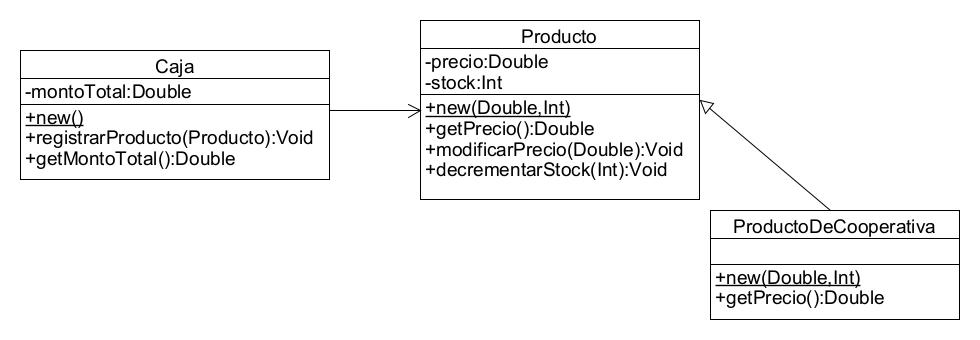
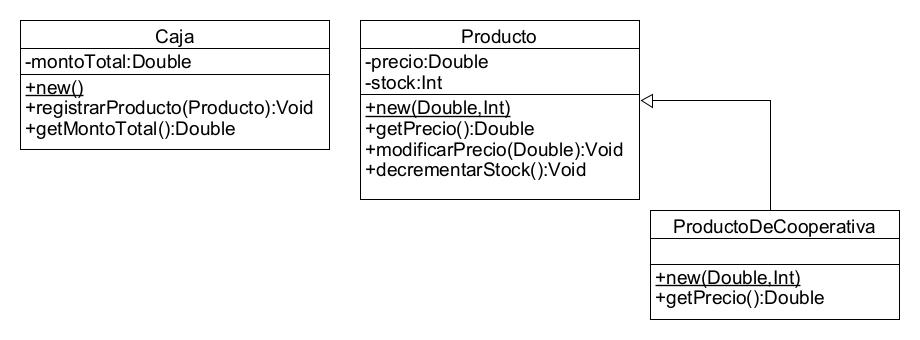
Se agrega una interfaz facturable y se quita la sobrecarga de metodo

diff --git a/test/ar/edu/unq/po2/tp4/CajaTest.java b/test/ar/edu/unq/po2/tp4/CajaTest.java
@@ -25,22 +25,22 @@ public class CajaTest {
 	@Test
 	public void testRegistrarProducto() {
 		assertEquals(0, caja.getMontoTotal());
-		caja.registrarProducto(arroz,2);
-		caja.registrarProducto(vino,1);
+		caja.registrarProducto(arroz);
+		caja.registrarProducto(vino);
 		caja.registrarProducto(impuesto);
 		caja.registrarProducto(servicio);
-		assertEquals(1278d, caja.getMontoTotal());
-		assertEquals(0, arroz.getStock());
+		assertEquals(1269d, caja.getMontoTotal());
+		assertEquals(1, arroz.getStock());
 		assertEquals(1, vino.getStock());
 	}
 	
 	@Test
 	public void testObtenerElTotal() {
 		assertEquals(0, caja.getMontoTotal());
-		caja.registrarProducto(arroz,2);
-		caja.registrarProducto(vino,1);
+		caja.registrarProducto(arroz);
+		caja.registrarProducto(vino);
 		caja.registrarProducto(impuesto);
 		caja.registrarProducto(servicio);
-		assertEquals(1278d, caja.getMontoTotal());
+		assertEquals(1269d, caja.getMontoTotal());
 	}
 }

diff --git a/src/ar/edu/unq/po2/tp4/Producto.java b/src/ar/edu/unq/po2/tp4/Producto.java
@@ -1,6 +1,6 @@
 package ar.edu.unq.po2.tp4;
 
-public class Producto {
+public class Producto implements Facturable{
 	
 	private double precio;
 	private int stock;
@@ -18,11 +18,22 @@ public class Producto {
 		this.precio = precio;
 	}
 	
-	public void decrementarStock(int cantidad) {
-		this.stock -= cantidad;
+	public void decrementarStock() {
+		this.stock -= 1;
 	}
 	
 	public int getStock() {
 		return this.stock;
+	}
+
+	@Override
+	public double getMontoAPagar() {
+		// TODO Auto-generated method stub
+		return this.getPrecio();
+	}
+
+	@Override
+	public void quitarStock() {
+		this.decrementarStock();	
 	}
 }

diff --git a/src/ar/edu/unq/po2/tp4/Caja.java b/src/ar/edu/unq/po2/tp4/Caja.java
@@ -8,14 +8,9 @@ public class Caja implements Agencia {
 		
 	}
 	
-	public void registrarProducto(Producto producto, int cantidad) {
-		this.montoTotal += producto.getPrecio()*cantidad;
-		producto.decrementarStock(cantidad);
-	}
-	
-	public void registrarProducto(Factura factura) {
-		this.montoTotal += factura.montoTotal();
-		this.registrarPago(factura);
+	public void registrarProducto(Facturable producto) {
+		this.montoTotal += producto.getMontoAPagar();
+		producto.quitarStock();
 	}
 	
 	public double getMontoTotal() {

diff --git a/src/ar/edu/unq/po2/tp4/ProductoDeCooperativa.java b/src/ar/edu/unq/po2/tp4/ProductoDeCooperativa.java
@@ -1,6 +1,6 @@
 package ar.edu.unq.po2.tp4;
 
-public class ProductoDeCooperativa extends Producto{
+public class ProductoDeCooperativa extends Producto {
 
 	ProductoDeCooperativa(double precio, int stock) {
 		super(precio, stock);
@@ -9,5 +9,11 @@ public class ProductoDeCooperativa extends Producto{
 
 	public double getPrecio() {
 		return super.getPrecio() * 0.9;
+	}
+	
+	@Override
+	public double getMontoAPagar() {
+		// TODO Auto-generated method stub
+		return this.getPrecio();
 	}
 }

diff --git a/src/ar/edu/unq/po2/tp4/FacturaImpuesto.java b/src/ar/edu/unq/po2/tp4/FacturaImpuesto.java
@@ -12,5 +12,17 @@ public class FacturaImpuesto extends Factura{
 		// TODO Auto-generated method stub
 		return super.getCostoPorUnidadConsumida() * super.getUnidadesConsumidas();
 	}
+
+	@Override
+	public double getMontoAPagar() {
+		// TODO Auto-generated method stub
+		return this.montoTotal();
+	}
+
+	@Override
+	public void quitarStock() {
+		// TODO Auto-generated method stub
+		
+	}
 	
 }

diff --git a/src/ar/edu/unq/po2/tp4/FacturaServicio.java b/src/ar/edu/unq/po2/tp4/FacturaServicio.java
@@ -12,5 +12,17 @@ public class FacturaServicio extends Factura{
 		// TODO Auto-generated method stub
 		return super.getTasaDelServicio();
 	}
+
+	@Override
+	public double getMontoAPagar() {
+		// TODO Auto-generated method stub
+		return this.montoTotal();
+	}
+
+	@Override
+	public void quitarStock() {
+		// TODO Auto-generated method stub
+		
+	}
 	
 }

diff --git a/test/ar/edu/unq/po2/tp4/ProductoTest.java b/test/ar/edu/unq/po2/tp4/ProductoTest.java
@@ -36,10 +36,10 @@ public class ProductoTest {
 	
 	@Test
 	public void testDecrementarStock() {
-		arroz.decrementarStock(2);;
-		assertEquals(0, arroz.getStock());
+		arroz.decrementarStock();
+		assertEquals(1, arroz.getStock());
 		
-		vino.decrementarStock(1);;
+		vino.decrementarStock();
 		assertEquals(1, vino.getStock());
 	}
 }

diff --git a/src/ar/edu/unq/po2/tp4/Factura.java b/src/ar/edu/unq/po2/tp4/Factura.java
@@ -1,6 +1,6 @@
 package ar.edu.unq.po2.tp4;
 
-abstract class Factura {
+abstract class Factura implements Facturable {
 	
 	private double costoPorUnidadConsumida;
 	private int unidadesConsumidas;

diff --git a/src/ar/edu/unq/po2/tp4/Facturable.java b/src/ar/edu/unq/po2/tp4/Facturable.java
@@ -1,0 +1,6 @@
+package ar.edu.unq.po2.tp4;
+
+public interface Facturable {
+	public double getMontoAPagar();
+	public void quitarStock();
+}
